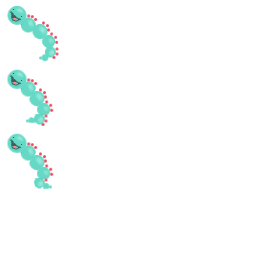
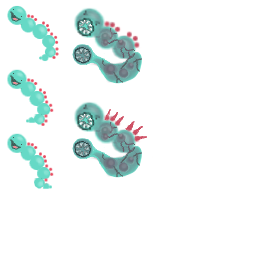
More viruses, boss sprites, started working on a more authorative world state

Changed region(s): [[0.2812, 0.375, 0.5938, 0.7188], [0.2812, 0.0312, 0.5625, 0.3438]]

diff --git a/gamelib/world.py b/gamelib/world.py
@@ -24,6 +24,7 @@ class World(object):
         self.center = vector.Vec2d(self.width/2, self.height/2)
         self.radius = 600
         
+        self.background = pyglet.resource.image('stage_1_background.png')
         self.borders = [vector.Vec2d(*v) for v in 
                             data.worlds[border_name].paths[0].path[0]]
                 
@@ -74,7 +75,7 @@ class World(object):
             self.build_up = True
         
         # self.current_wave = wave.Wave.generate(self.wave, self.diffculty)
-        if self.build_up and random.random() < 0.3:        
+        if self.build_up and random.random() < 0.2:        
             for i in range(random.choice([3,3,3,3,3,3,3,3,3,3,3,3,5,5,5,5,5,5,5,10,10,10,30])):
                 
                 x, y = self.valid_location()
@@ -85,7 +86,8 @@ class World(object):
                     virus.PurpleVirus, 
                     virus.SixthVirus, 
                     virus.CheezeVirus,
-                    # virus.WormVirus
+                    virus.WormVirus,
+                    virus.RedVirus
                     )
                 ), 1, x, y)
         

diff --git a/gamelib/gamepad.py b/gamelib/gamepad.py
@@ -21,7 +21,7 @@ class GamepadHandler(pyglet.event.EventDispatcher):
         self.buttons = {}
         self.hats = {}
         self.axis = {}        
-        self.deadzone = 0.1
+        self.deadzone = 0.2
                         
         self.j = pygame.joystick.Joystick(id)
         self.j.init()
@@ -41,7 +41,14 @@ class GamepadHandler(pyglet.event.EventDispatcher):
         
         for a in range(self.j.get_numaxes()):
             self.axis[a] = self.j.get_axis(a)
-            if abs(self.axis[a]) < self.deadzone: self.axis[a] = 0.0
+        
+        # if abs(self.axis[a]) < self.deadzone: self.axis[a] = 0.0    
+        if abs(self.axis[0]) < self.deadzone and abs(self.axis[1]) < self.deadzone:
+            self.axis[0] = self.axis[1] = 0.0    
+            
+        if abs(self.axis[2]) < self.deadzone and abs(self.axis[3]) < self.deadzone:
+            self.axis[2] = self.axis[3] = 0.0
+        
             
         for b in range(self.j.get_numbuttons()):
             old_b_state = self.buttons[b]

diff --git a/gamelib/enemies/virus.py b/gamelib/enemies/virus.py
@@ -91,11 +91,18 @@ class MutatingVirus(Virus):
         
 
         
-class PurpleVirus(Virus):    
+class PurpleVirus(MutatingVirus):    
     spritesheet = data.load_virus('purple')
     sprite_image = spritesheet[3]
     color = (162,142,249)
     speed = 100
+    
+class RedVirus(MutatingVirus):    
+    spritesheet = data.load_virus('red')
+    sprite_image = spritesheet[3]
+    color = (235,76,105)
+    speed = 100
+    
     
 class BlueVirus(MutatingVirus):    
     spritesheet = data.load_virus('blue')
@@ -150,7 +157,7 @@ class CheezeVirus(MutatingVirus):
         target.y += random.randrange(-10,10)
         self.vel = (target).normal * self.speed
         
-class WormVirus(Virus):
+class WormVirus(MutatingVirus):
     spritesheet = data.load_virus('worm')
     sprite_image = spritesheet[3]
     animation_small = [3,2,1,2]

diff --git a/gamelib/states/game.py b/gamelib/states/game.py
@@ -106,7 +106,10 @@ class Game(object):
         self.camera.update(self.player.pos)
         
         # rabbyt.set_time(0)
-
+        
+    def on_gamepad_button(self):
+        print 'Gamepad Button!'    
+        
     def collect_garbage(self, dt=0.0):
         """
         This function will remove all of the dead objects in the robots and 
@@ -150,7 +153,7 @@ class Game(object):
         pyglet.gl.glTranslatef(-self.camera.x, -self.camera.y, 0)
         
         # pyglet.gl.glColor4f(1, 1, 1, 1)
-        data.background.blit(self.world.center.x, self.world.center.y)
+        self.world.background.blit(0,0)
                 
         # render characters and pickups
 

diff --git a/gamelib/data.py b/gamelib/data.py
@@ -20,9 +20,9 @@ bullet = pyglet.resource.image('bullet.png')
 bullet.anchor_x = bullet.width // 2
 bullet.anchor_y = bullet.height // 2
 
-background = pyglet.resource.image('stage_1_background.png')
-background.anchor_x = background.width // 2
-background.anchor_y = background.height // 2
+# background = pyglet.resource.image('stage_1_background.png')
+# background.anchor_x = background.width // 2
+# background.anchor_y = background.height // 2
     
 def load_virus(name):
     """

diff --git a/gamelib/player.py b/gamelib/player.py
@@ -28,10 +28,6 @@ class Player(pyglet.event.EventDispatcher, obj.CompoundGameObject):
     def __init__(self, x, y):
         player_sprites = [
             (data.spritesheet[0],(0,0)), 
-            # (data.spritesheet[15],(25,0)),
-            # (data.spritesheet[15],(-25,0)),
-            # (data.spritesheet[15],(10,20)),
-            # (data.spritesheet[15],(-10,20))            
         ] 
                 
         obj.CompoundGameObject.__init__(self, player_sprites, x, y)
